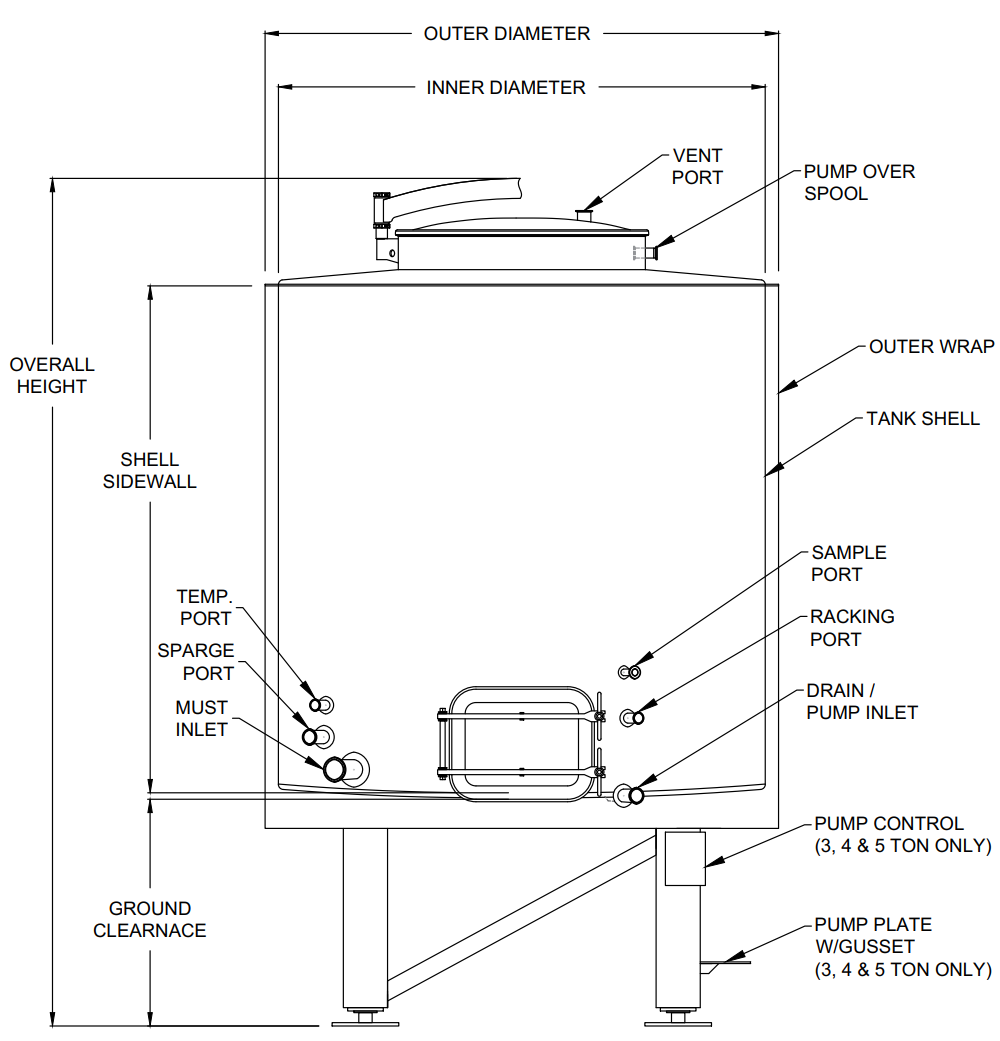
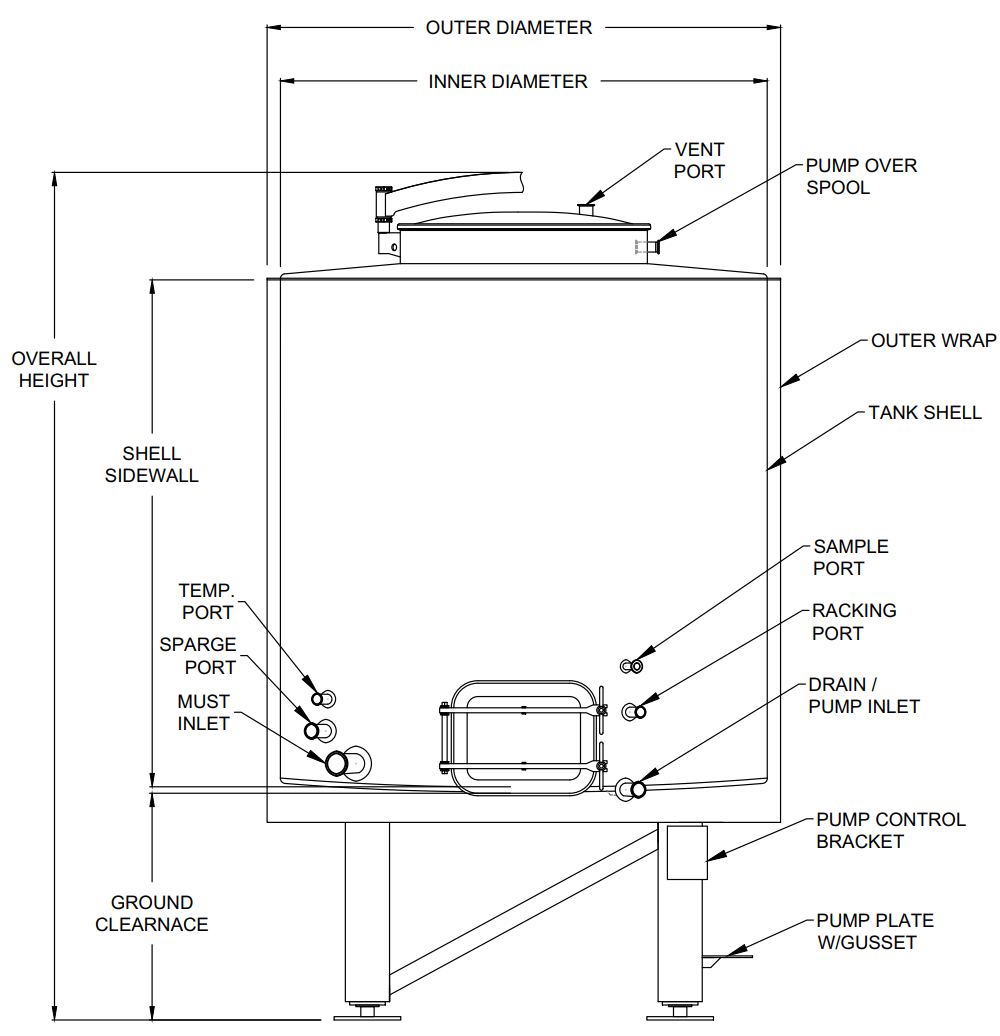
Update spec sheet Mon 06/15/2026 16:24:16.22

diff --git a/tank-data.js b/tank-data.js
@@ -54,7 +54,7 @@ Temp well | 18" long, 1/2" FNPT w/ brace, fully welded
 Legs | 6" sch 40 SS, welded to body or on stand; 10" Ø × 1/4" footpads, 2" height adjust
 Leg bracing | per structural — assume 2" sch 40 SS single diagonal
 Pump plate | 3, 4 & 5 Ton only, assume 12" × 10" × 1/4" w/ gussets
-Pump Control | 3, 4 & 5 Ton only, assume 6" × 8" × 12 ga bracket
+Pump control bracket | 3, 4 & 5 Ton only, assume 6" × 8" × 12 ga bracket
 Pump-over | piping & install separate / by others
 
 `;